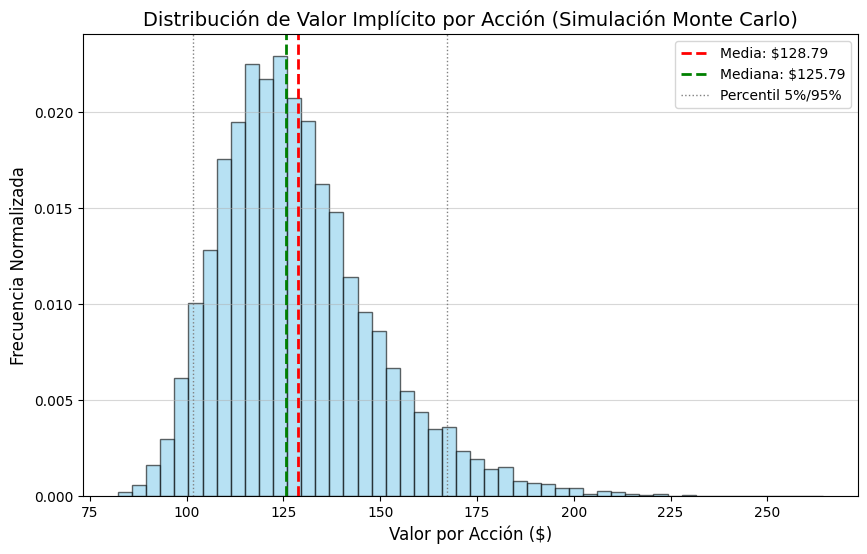
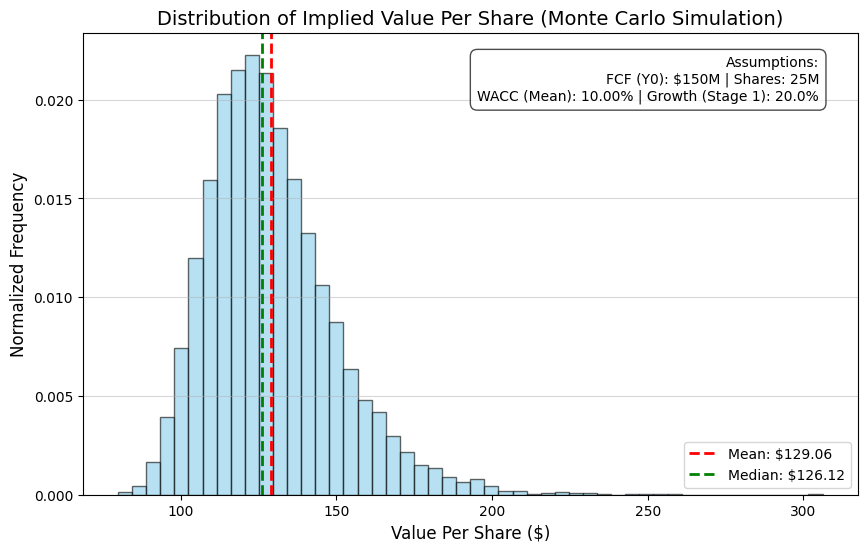
Feature:

diff --git a/dcf_app.py b/dcf_app.py
@@ -1,5 +1,6 @@
 import streamlit as st
 import numpy as np
+import matplotlib.pyplot as plt
 from dcf_model import DCFModel
 
 # --- Configuration and Utility Functions ---
@@ -32,7 +33,7 @@ st.sidebar.header("1. Company Base Parameters")
 fcf_year_0 = st.sidebar.number_input(
     "FCF Year 0 (USD):", 
     min_value=0.0, 
-    value=150000000.0, # Valor ajustado
+    value=150000000.0, # Adjusted value
     step=1000000.0, 
     format="%.0f",
     help="Latest reported Free Cash Flow. E.g., type 150000000 for $150 million."
@@ -50,7 +51,7 @@ net_debt = st.sidebar.number_input(
 shares_outstanding = st.sidebar.number_input(
     "Shares Outstanding:", 
     min_value=100000.0, 
-    value=25000000.0, # Valor ajustado
+    value=25000000.0, # Adjusted value
     step=100000.0,
     format="%.0f",
     help="Total number of outstanding common shares."
@@ -70,7 +71,7 @@ st.sidebar.header("2. Growth Assumptions (Two-Stage)")
 initial_growth_rate = st.sidebar.slider(
     "Growth Rate (Stage 1: Years 1-2):", 
     min_value=0.0, max_value=0.25, 
-    value=0.20, # Valor ajustado
+    value=0.20, # Adjusted value
     step=0.01, 
     format="%.2f"
 )
@@ -98,7 +99,7 @@ st.sidebar.header("3. Discount Rate & Monte Carlo")
 wacc_mean = st.sidebar.slider(
     "WACC (Mean Discount Rate):", 
     min_value=0.03, max_value=0.20, 
-    value=0.100, # Valor ajustado
+    value=0.100, # Adjusted value
     step=0.005, 
     format="%.3f",
     help="Weighted Average Cost of Capital, used as the discount rate."
@@ -183,7 +184,6 @@ with col_det:
     
     st.metric(
         label="Implied Value Per Share (Deterministic)",
-        # Output uses comma separator for thousands (e.g., 1,000,000)
         value=f"${results_display['Deterministic_Value']:,.2f}",
         help=f"Calculated using fixed inputs: WACC ({wacc_mean:.1%}) and g ({perpetuity_growth_g:.1%}) as fixed inputs."
     )
@@ -196,7 +196,6 @@ with col_mc:
     
     st.metric(
         label="Average Value Per Share (from Simulation)",
-        # Output uses comma separator for thousands
         value=f"${results_display['MC_Mean']:,.2f}",
         delta=f"Std. Dev. (Risk): ${results_display['MC_StDev']:,.2f}",
         delta_color="off",
@@ -207,7 +206,6 @@ with col_mc:
     ci_high = results_display['MC_CI_High']
     
     st.success(
-        # Corrected format to ensure spacing: $XX.XX to $YY.YY
         f"95% Confidence Range: ${ci_low:,.2f} to ${ci_high:,.2f}"
     )
     
@@ -215,8 +213,43 @@ with col_mc:
 st.markdown("---")
 st.header("Value Distribution (Risk Profile)")
 
-# Save the figure and display it
-fig = dcf.plot_monte_carlo_results()
+# --- GENERACIÓN DEL GRÁFICO ---
+
+# Recrear la figura
+fig, ax = plt.subplots(figsize=(10, 6))
+
+# Usamos la data guardada en el objeto dcf para plotear
+if len(dcf.simulated_per_share_values) > 0:
+    ax.hist(dcf.simulated_per_share_values, bins=50, density=True, alpha=0.6, color='skyblue', edgecolor='black')
+    
+    mean_val = results_mc['Mean']
+    median_val = results_mc['Median']
+    
+    # Lines are in English now
+    ax.axvline(mean_val, color='red', linestyle='dashed', linewidth=2, label=f'Mean: ${mean_val:,.2f}')
+    ax.axvline(median_val, color='green', linestyle='dashed', linewidth=2, label=f'Median: ${median_val:,.2f}')
+    
+    # --- AÑADIR CONTEXTO DE INPUTS DENTRO DEL ÁREA DE LOS EJES (ESTABLE) ---
+    input_text = (
+        f"Assumptions:\n"
+        f"FCF (Y0): ${fcf_year_0/1e6:.0f}M | Shares: {shares_outstanding/1e6:.0f}M\n"
+        f"WACC (Mean): {wacc_mean:.2%} | Growth (Stage 1): {initial_growth_rate:.1%}"
+    )
+    
+    # Colocar el texto en la esquina superior derecha de la zona de trazado (ax.text)
+    # xy=(0.95, 0.95) son coordenadas relativas a los ejes (no a la figura total)
+    ax.text(0.95, 0.95, input_text, transform=ax.transAxes, 
+             fontsize=10, verticalalignment='top', horizontalalignment='right', 
+             bbox=dict(boxstyle="round,pad=0.5", fc="white", alpha=0.7))
+
+    # Títulos y Ejes en inglés
+    ax.set_title('Distribution of Implied Value Per Share (Monte Carlo Simulation)', fontsize=14)
+    ax.set_xlabel('Value Per Share ($)', fontsize=12)
+    ax.set_ylabel('Normalized Frequency', fontsize=12)
+    ax.legend()
+    ax.grid(axis='y', alpha=0.5)
+
+# Guardar la figura y mostrarla
 fig.savefig("monte_carlo_distribution.png", bbox_inches='tight')
 st.pyplot(fig)
 
